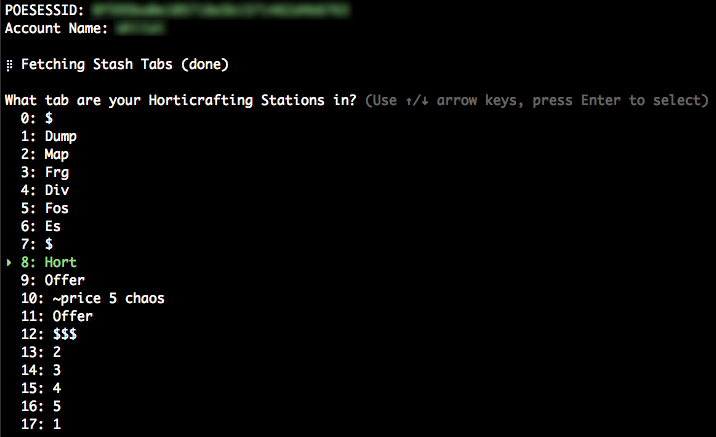
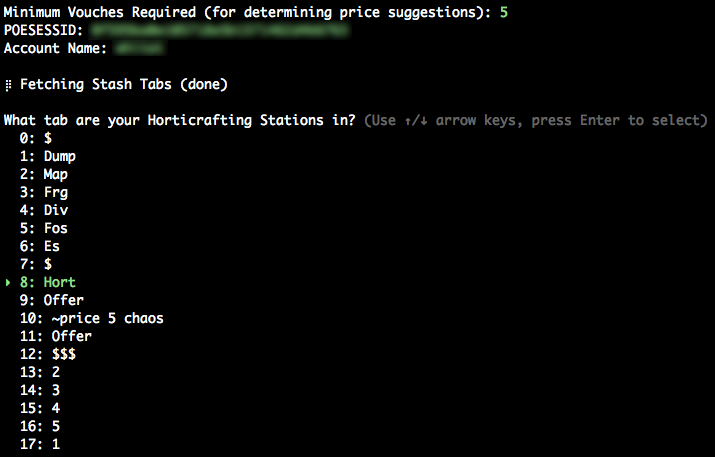
Added 'Minimum Vouches Required' for pricing suggestions to mitigate against price-fixing

Changed region(s): [[0.0, 0.0, 1.0, 0.9817]]

diff --git a/lib/horticrafting_pricing.rb b/lib/horticrafting_pricing.rb
@@ -6,10 +6,12 @@ class HorticraftingPricing
   STASH_TAB_CONTENTS_ENDPOINT = "https://www.pathofexile.com/character-window/get-stash-items?league=%s&tabs=0&tabIndex=%s&accountName=%s".freeze
   FORBIDDEN_HARVEST_SEARCH_ENDPOINT = "https://api.forbiddenharvest.com/search".freeze
   FORBIDDEN_HARVEST_API_KEY = "LUzWaKHO0i3ezyOgKocS63ZCh8bxAp3e8bzIteJP".freeze
+  NUM_RESULTS_PER_CRAFT = 3
 
-  attr_accessor :spinner, :poesessid, :account_name, :tab_id, :horticrafting_stations
+  attr_accessor :spinner, :minimum_vouches, :poesessid, :account_name, :tab_id, :horticrafting_stations
 
   def run
+    self.minimum_vouches = ask("Minimum Vouches Required (for determining price suggestions)", :minimum_vouches, 5).to_i
     self.poesessid = ask("POESESSID", :poesessid)
     self.account_name = ask("Account Name", :account_name)
     self.tab_id = select("What tab are your Horticrafting Stations in?", fetch_tab_list, :tab_id)
@@ -25,7 +27,7 @@ class HorticraftingPricing
 
   def display_suggested_station_pricing
     priced_stations = horticrafting_stations.each.with_object([]) do |station, matrix|
-      (matrix[station.y] ||= [])[station.x] = station.suggested_pricing_note
+      (matrix[station.y] ||= [])[station.x] = station.suggested_pricing_note(minimum_vouches: minimum_vouches)
     end
 
     priced_stations.each do |stations|
@@ -39,15 +41,15 @@ class HorticraftingPricing
     table = TTY::Table.new
 
     Craft.crafts.each_value do |craft|
-      table << [ craft.text, craft.to_formatted_prices ]
+      table << [ craft.text, craft.to_formatted_prices(minimum_vouches: minimum_vouches) ]
     end
 
     puts table.render :ascii, multiline: true, padding: [ 0, 1 ], border: { separator: :each_row }
   end
 
 private
-  def ask(question, config_key = nil)
-    TTY::Prompt.new.ask("#{question}:", default: (config.fetch(config_key) if config_key)).tap do |response|
+  def ask(question, config_key = nil, default = nil)
+    TTY::Prompt.new.ask("#{question}:", default: (config_key ? config.fetch(config_key) : default)).tap do |response|
       config.set(config_key, value: response) if config_key
     end
   end

diff --git a/lib/craft.rb b/lib/craft.rb
@@ -5,22 +5,27 @@ class Craft
     self.text = text
   end
 
-  def cheapest_price
-    return "" if prices.empty?
+  def cheapest_price(minimum_vouches: 0)
+    applicable_prices = prices.select { |p| p["vouche_count"] >= minimum_vouches }
 
-    currency = case prices[0]["price_coin"]
+    return "" if applicable_prices.empty?
+    cheapest_price = applicable_prices.first
+
+    currency = case cheapest_price["price_coin"]
     when "CHAOS" then "c"
     when "EXALT" then "ex"
-    else raise "unknown currency #{prices[0]["price_coin"]}"
+    else raise "unknown currency #{cheapest_price["price_coin"]}"
     end
 
-    "#{prices[0]["price"]}#{currency}"
+    "#{cheapest_price["price"]}#{currency}"
   end
 
-  def to_formatted_prices
-    return "(no data)" if prices.empty?
+  def to_formatted_prices(minimum_vouches: 0)
+    applicable_prices = prices.select { |p| p["vouche_count"] >= minimum_vouches }
 
-    prices.map do |v|
+    return "(no data)" if applicable_prices.empty?
+
+    applicable_prices.map do |v|
       "#{v["price"]} #{v["price_coin"]} - lvl: #{v["seed_lvl"]} vch: #{v["vouche_count"]}"
     end.join("\n")
   end
@@ -30,7 +35,7 @@ class Craft
       .headers("x-api-key" => HorticraftingPricing::FORBIDDEN_HARVEST_API_KEY)
       .post(HorticraftingPricing::FORBIDDEN_HARVEST_SEARCH_ENDPOINT, json: { "searchText" => text })
 
-    self.prices = JSON.parse(response.to_s)["results"].first(3)
+    self.prices = JSON.parse(response.to_s)["results"].first(HorticraftingPricing::NUM_RESULTS_PER_CRAFT)
   end
 
   class << self

diff --git a/lib/horticrafting_station.rb b/lib/horticrafting_station.rb
@@ -6,7 +6,7 @@ class HorticraftingStation
     self.crafts = opts["craftedMods"].map { |craft| HorticraftingStationCraft.new(craft) }
   end
 
-  def suggested_pricing_note
-    "#" + [ crafts.map(&:cheapest_price), nil, nil, nil ].flatten.first(3).join("/")
+  def suggested_pricing_note(minimum_vouches: nil)
+    "#" + [ crafts.map { |c| c.cheapest_price(minimum_vouches: minimum_vouches) }, nil, nil, nil ].flatten.first(3).join("/")
   end
 end
